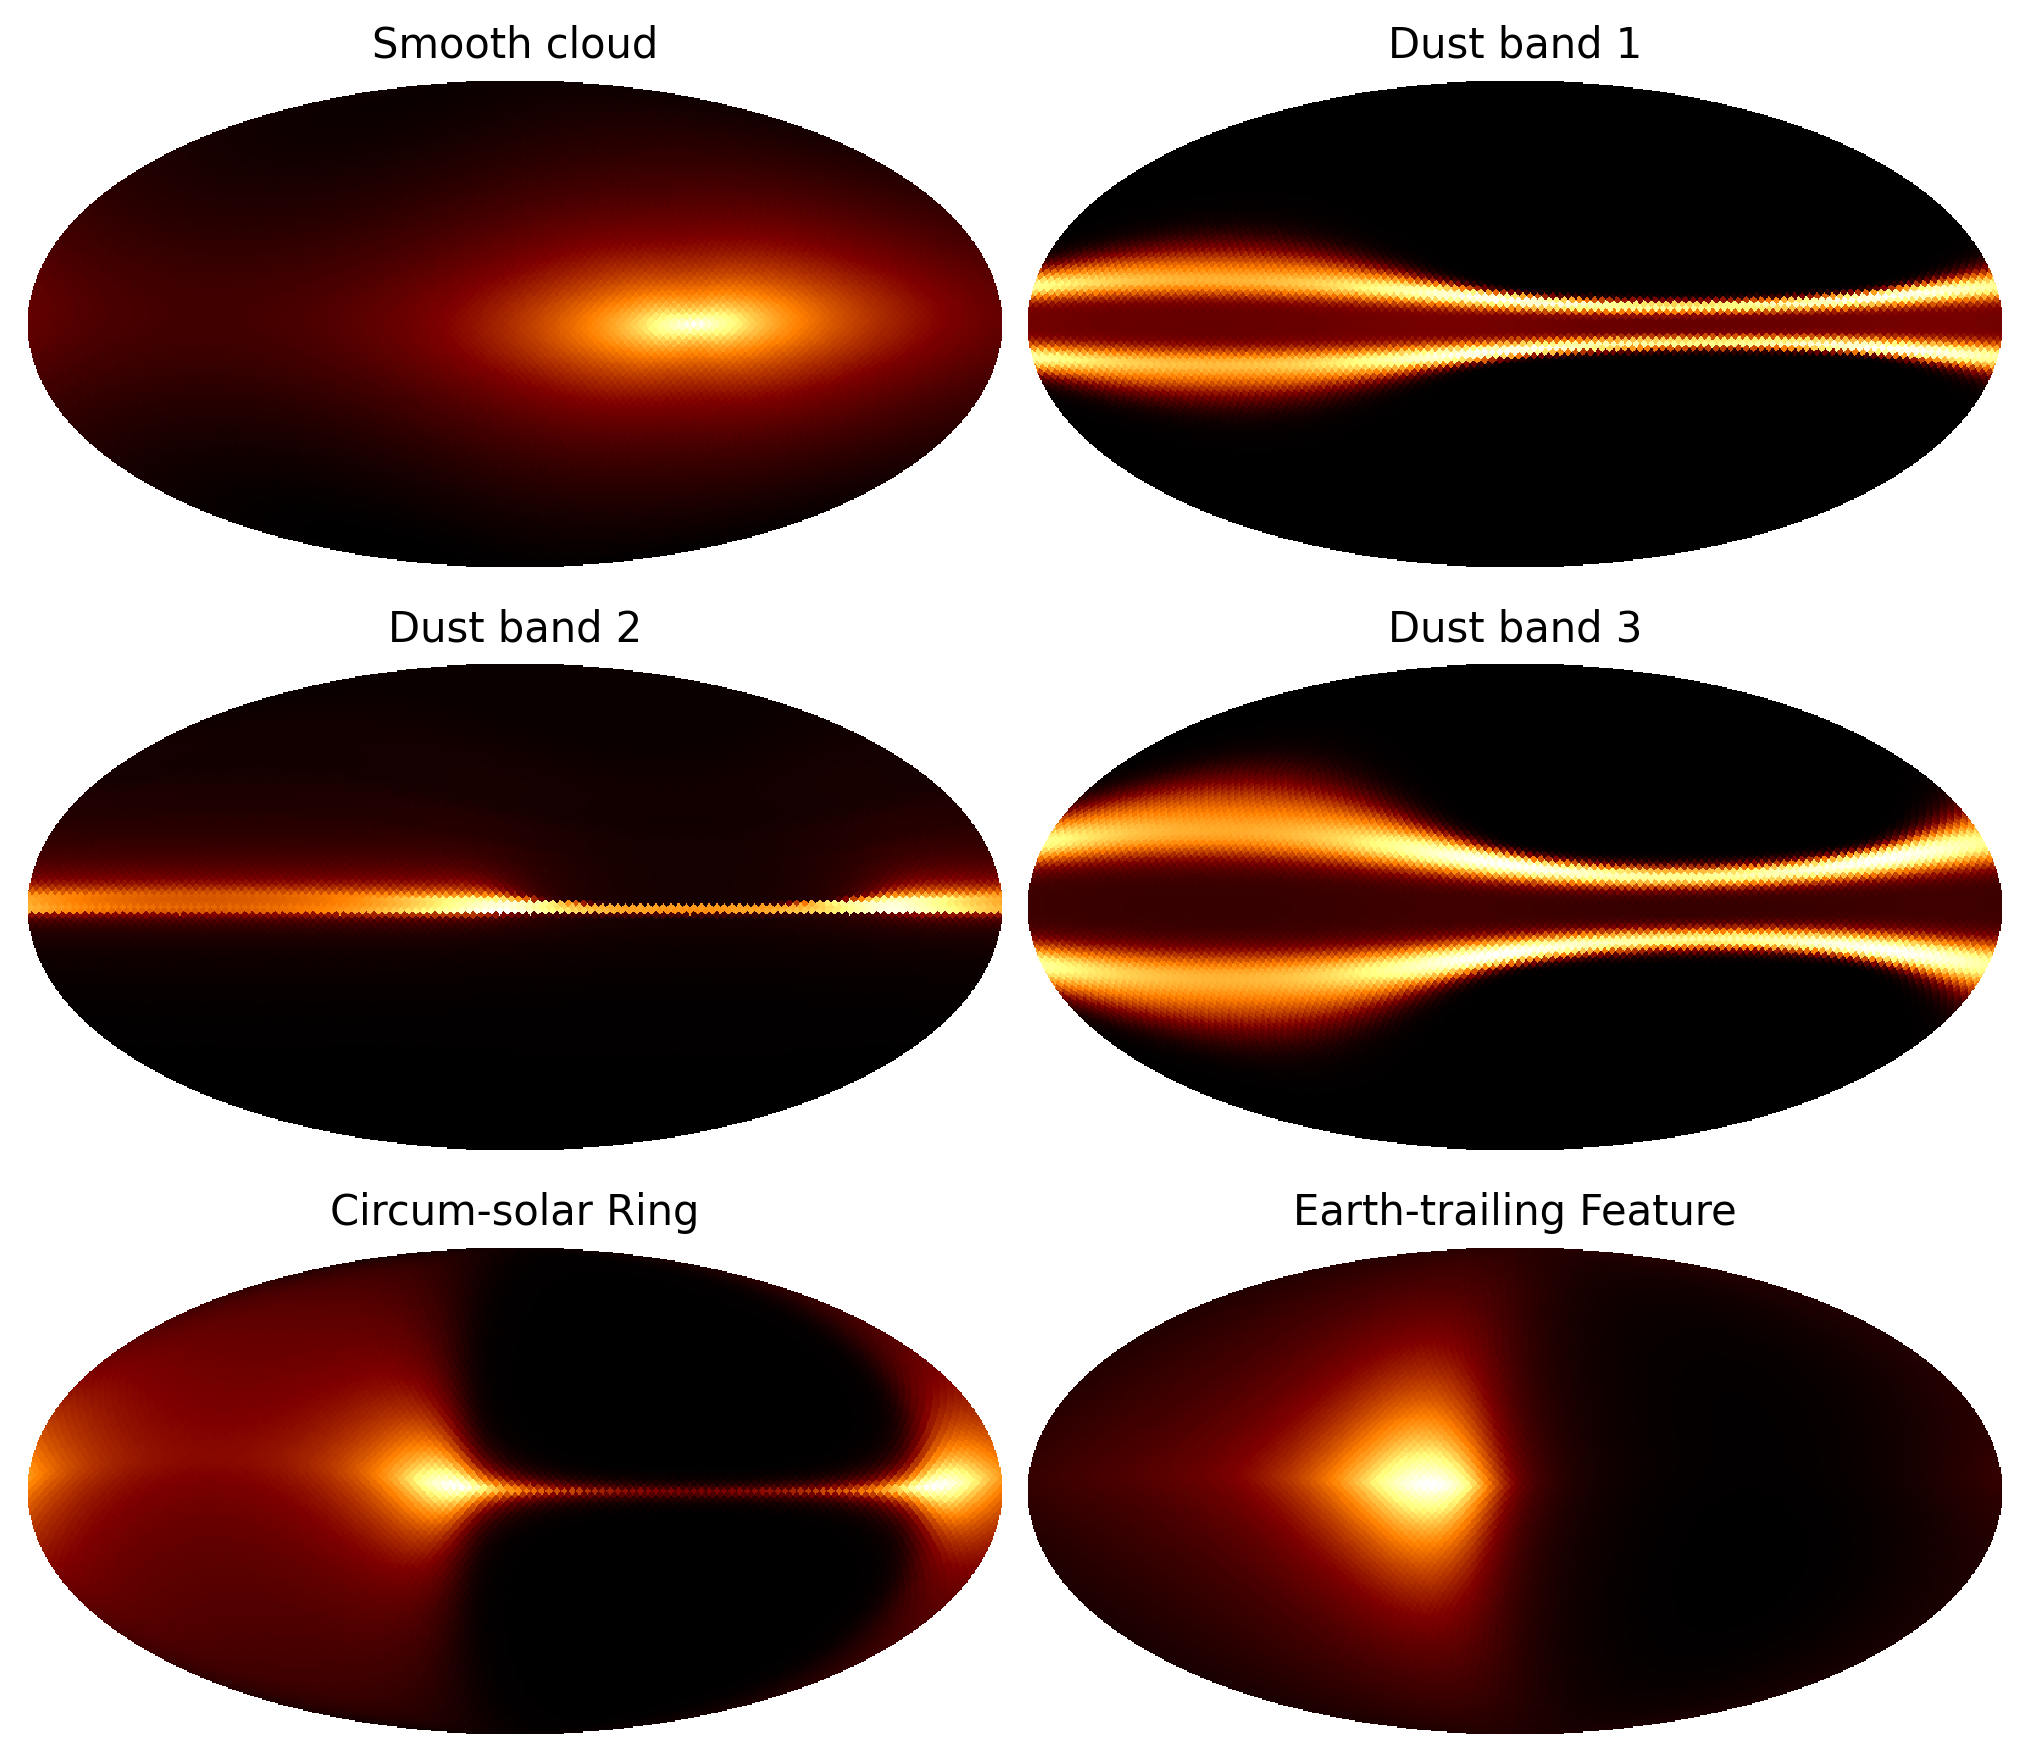
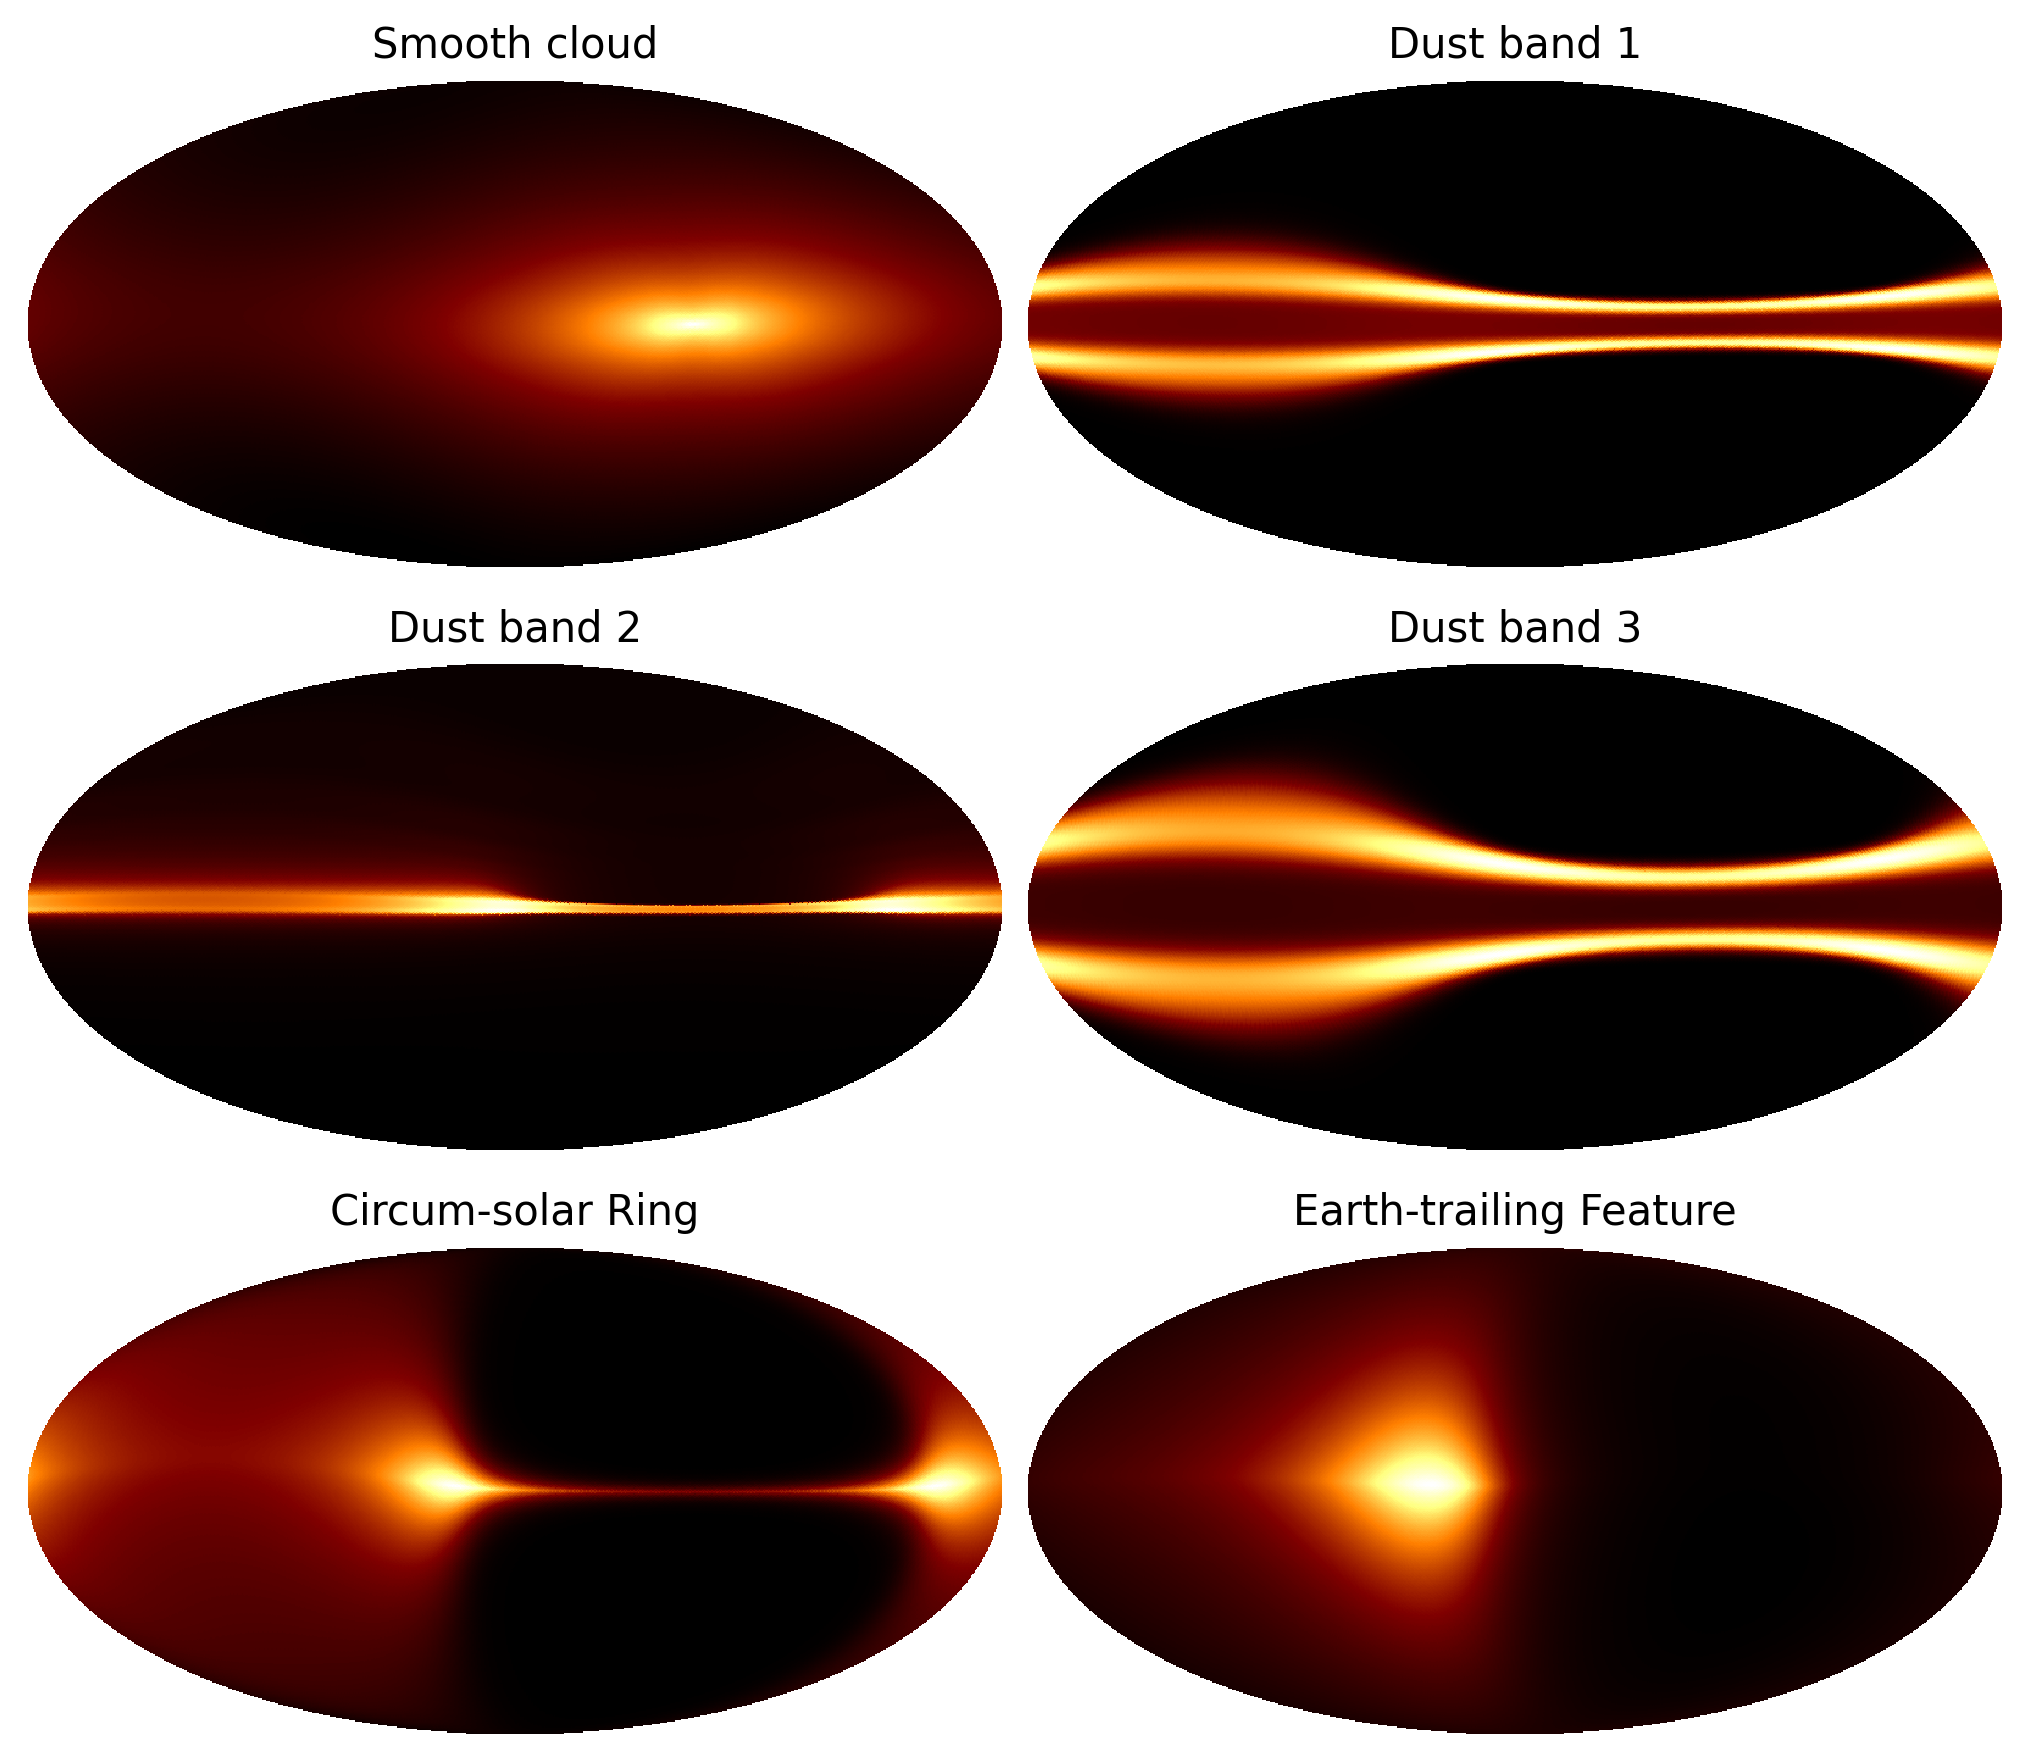
Update documentation

diff --git a/docs/examples/astropy_healpix_map.py b/docs/examples/astropy_healpix_map.py
@@ -20,6 +20,7 @@ skycoord.obstime = Time("2022-01-14")
 
 emission = model.evaluate(skycoord, nprocesses=multiprocessing.cpu_count())
 
+# Plot with healpy
 hp.mollview(
     emission,
     unit="MJy/sr",
@@ -28,5 +29,5 @@ hp.mollview(
     max=80,
     title="Zodiacal light at 30 µm (2022-01-14)",
 )
-plt.savefig("../img/healpix_map.png", dpi=300, bbox_inches="tight")
+# plt.savefig("../img/healpix_map.png", dpi=300, bbox_inches="tight")
 plt.show()

diff --git a/docs/examples/component_maps.py b/docs/examples/component_maps.py
@@ -20,7 +20,7 @@ COMP_NAMES = [
 
 model = zodipy.Model(24 * u.micron)
 
-nside = 32
+nside = 128
 pixels = np.arange(hp.nside2npix(nside))
 lon, lat = hp.pix2ang(nside, pixels, lonlat=True)
 

diff --git a/docs/usage.md b/docs/usage.md
@@ -1,5 +1,5 @@
-!!! warning "Breaking API changes in `v1.0.0` and newer"
-    From version `v1.0.0` and out ZodiPy no implements the `get_emission_ang` and `get_emission_pix` methods. See the section on [HEALPix maps](usage.md#healpix-maps) for an example of how to make simulations from HEALPix pixel indices. We apologize for the inconvenience.  
+!!! warning "Breaking API changes in `v1.0.0`"
+    From version `v1.0.0` and out ZodiPy no implements the `get_emission_ang` and `get_emission_pix` methods. See the section on [HEALPix maps](usage.md#healpix-maps) for an example of how to make simulations from HEALPix pixel indices. These are changes following the integration of ZodiPy into the Astropy ecosystem.
 
 As an Astropy-affiliated package, ZodiPy is highly integrated with the astropy ecosystem.
 To make zodiacal light simulations, the `astropy.units`, `astropy.coordinates`, and `astropy.time` modules are used to provide user input. The coordinates for which ZodiPy will simulate the zodiacal light is specified in through the `astropy.coordinates.SkyCoord` object. Using ZodiPy is very simple and the user will only interact with *one* object `zodipy.Model`, which has *one* method `evaluate`.
@@ -51,7 +51,21 @@ skycoord = SkyCoord(
     frame="galactic"
 )
 ```
-The `obstime` keyword is mandetory, and is given by an `astropy.time.Time` object, which can represent time in many formats, including Julian and modified Julian dates (see the [documentation](https://docs.astropy.org/en/stable/time/) on times with Astropy).
+The `obstime` keyword is mandatory, and is given by an `astropy.time.Time` object, which can represent time in many formats, including Julian and modified Julian dates (see the [Astropy documentation](https://docs.astropy.org/en/stable/time/)).
+Correspondingly for several observations, each with their own `obstime` input:
+```py hl_lines="6 7 8"
+import astropy.units as u
+from astropy.coordinates import SkyCoord
+from astropy.time import Time
+
+skycoord = SkyCoord(
+    [40, 41, 42] * u.deg, 
+    [60, 59, 58] * u.deg, 
+    obstime=Time(["2020-01-01", "2020-01-02", "2020-01-03"]), 
+    frame="galactic"
+)
+```
+If a single value is given for `obstime`, all coordinates are assumed to be viewed instantaneously at that time from a single position in the Solar system. Otherwise, each coordinate must have its own `obstime` value.
 
 The sky coordinates should represent observer-centric coordinates. The observer-position is therefore required to compute the line-of-sight integrals, but this is provided not in the `SkyCoord` object, but rather in the `evaluate` method which we will see soon.
 
@@ -99,12 +113,7 @@ skycoord_celestial = SkyCoord(
 ```
 
 ### The `evaluate` method
-Zodiacal light is evaluated by passing in the `SkyCoord` object to the `zodipy.Model.evaluate` method.
-
-!!! note 
-    ZodiPy assumes that all coordinates provided to a single `evalute` call are obtained at an instant in time from the position of the observer. The zodiacal light moves by about ~1 degree on the sky each day, meaning that long time-ordered pointing Sequences need to be rechunked.
-    For the best result, each call to `evaluate` should contain pointing observed within ~ 1 hour of the `obstime` provided in the `SkyCoord` object. 
-
+The zodiacal light is evaluated by providing the `SkyCoord` object to the `zodipy.Model.evaluate` method.
 
 ```py hl_lines="15"
 import astropy.units as u
@@ -125,7 +134,7 @@ emission = model.evaluate(skycoord)
 print(emission)
 # <Quantity [25.08189292] MJy / sr>
 ```
-By default, the observer is assumed to be on Earth. The position of the observer can be explicitly provided as the keyword argument `obspos` in the `evaluate` method
+By default, the observer is assumed to be the center of the Earth. The position of the observer can be explicitly provided as the keyword argument `obspos` in the `evaluate` method
 
 ```py hl_lines="15 19"
 import astropy.units as u
@@ -152,8 +161,7 @@ print(emission)
 ```
 This argument accepts both a string representing a body recognized by `astropy.coordinates.solar_system_ephemeris` (see the Astropy [documentation](https://docs.astropy.org/en/stable/api/astropy.coordinates.solar_system_ephemeris.html)), or a heliocentric ecliptic cartesian position.
 
-!!! tip
-    If the coordinates in the `SkyCoord` object contain a large number of re-observations, as is the case for many satellite observations, setting the `contains_duplicates` keyword in the `evaluate` method to `True` will speed up the evaluations.
+Similar to with the `obstime` attribute in the `SkyCoord` object, the `obspos` keyword have shape `(3,)` or `(3, ncoords)`. If a string representation of a body is used, with several values `obstime` ZodiPy will internally compute a position for each coordinate.
 
 
 ### Multiprocessing
@@ -194,7 +202,7 @@ In the following, we simulate a scan across the Ecliptic plane
 ![Ecliptic scan profile](img/ecliptic_scan.png)
 
 
-### HEALPIx maps
+### HEALPix maps
 We can use [healpy](https://healpy.readthedocs.io/en/latest/) or [Astropy-healpix](https://astropy-healpix.readthedocs.io/en/latest/) to create a `SkyCoord` object directly from a HEALPIx pixelization
 
 === "healpy"
@@ -203,7 +211,7 @@ We can use [healpy](https://healpy.readthedocs.io/en/latest/) or [Astropy-healpi
     --8<-- "docs/examples/healpy_map.py"
     ```
 
-=== "healpy + astropy-healpix"
+=== "astropy-healpix"
 
     ```py
     --8<-- "docs/examples/astropy_healpix_map.py"

diff --git a/docs/reference.md b/docs/reference.md
@@ -1,3 +1,3 @@
 # Reference
 
-::: zodipy.zodipy
+::: zodipy.Model
